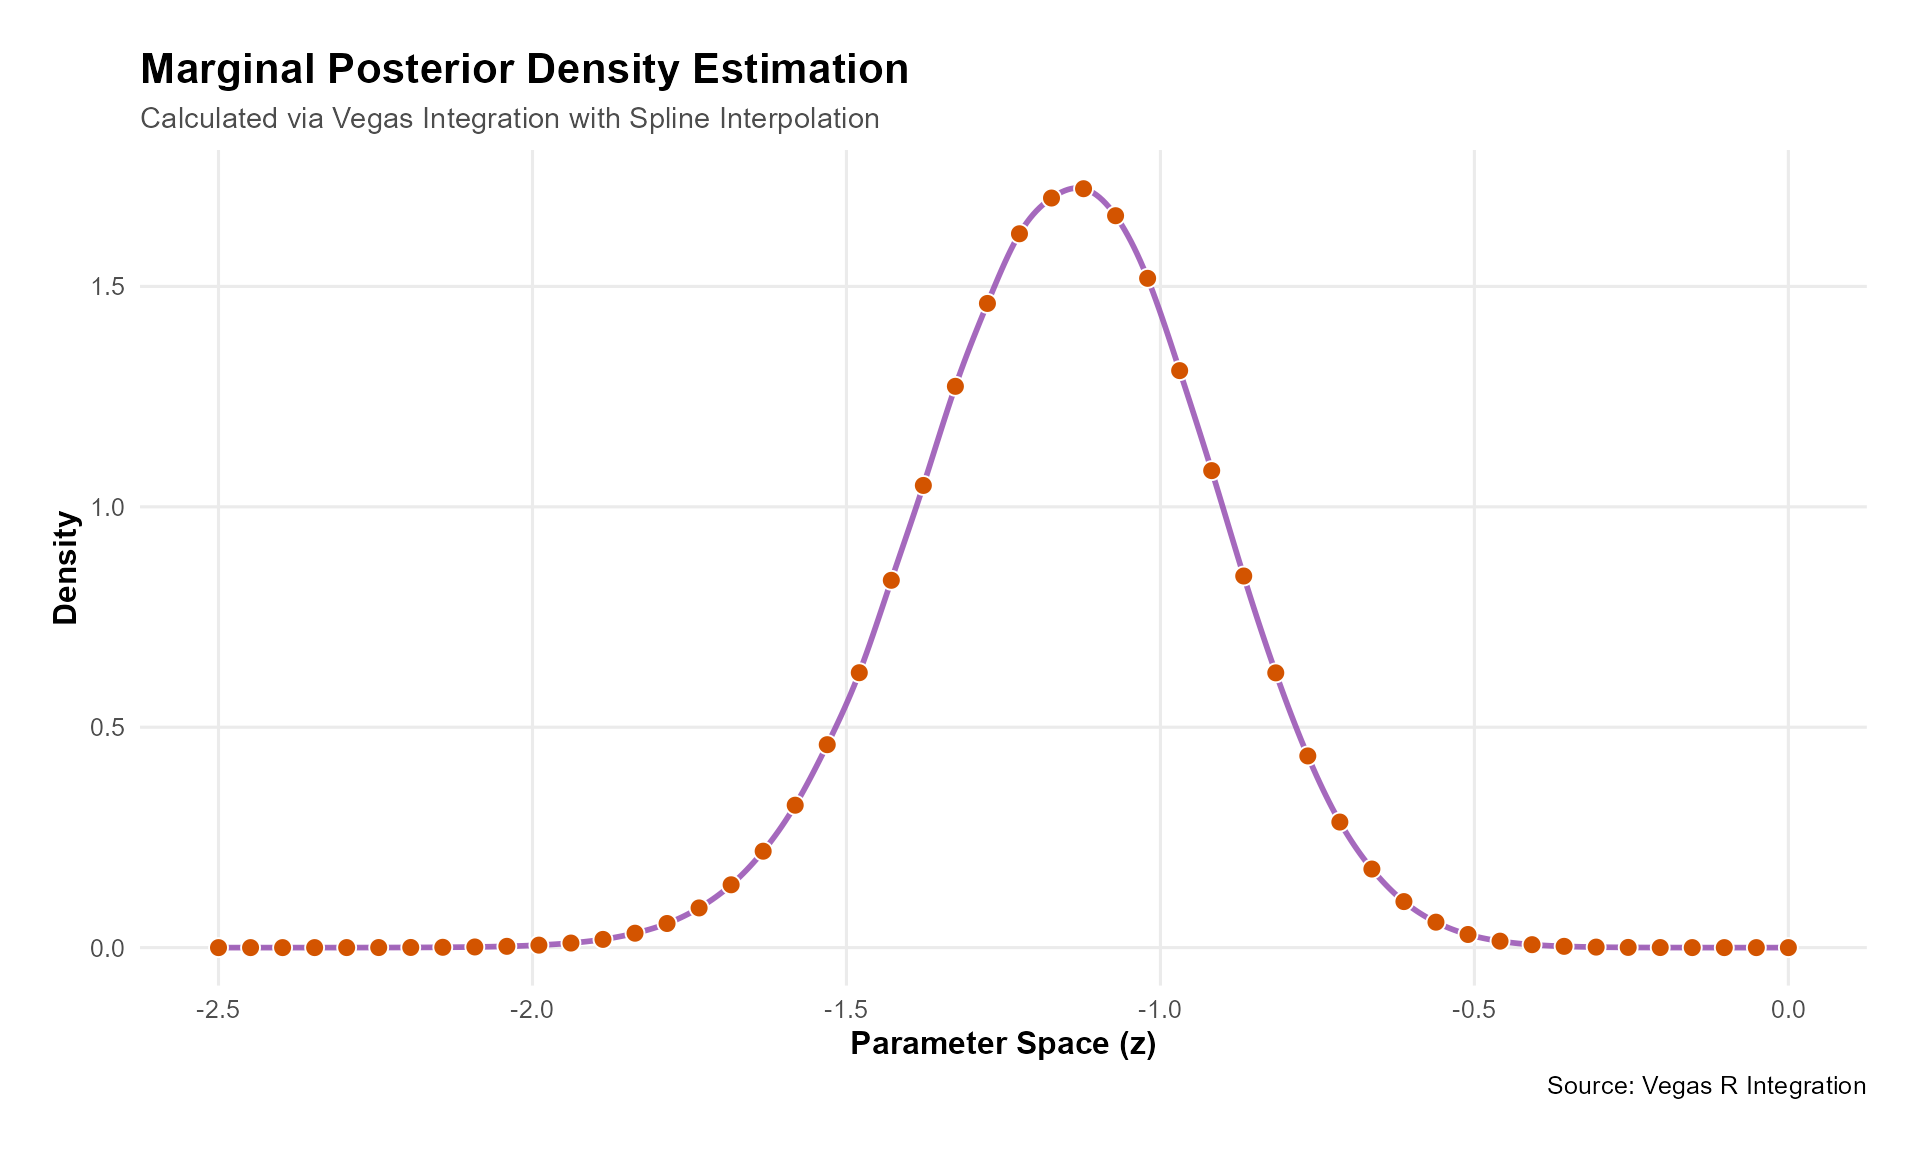
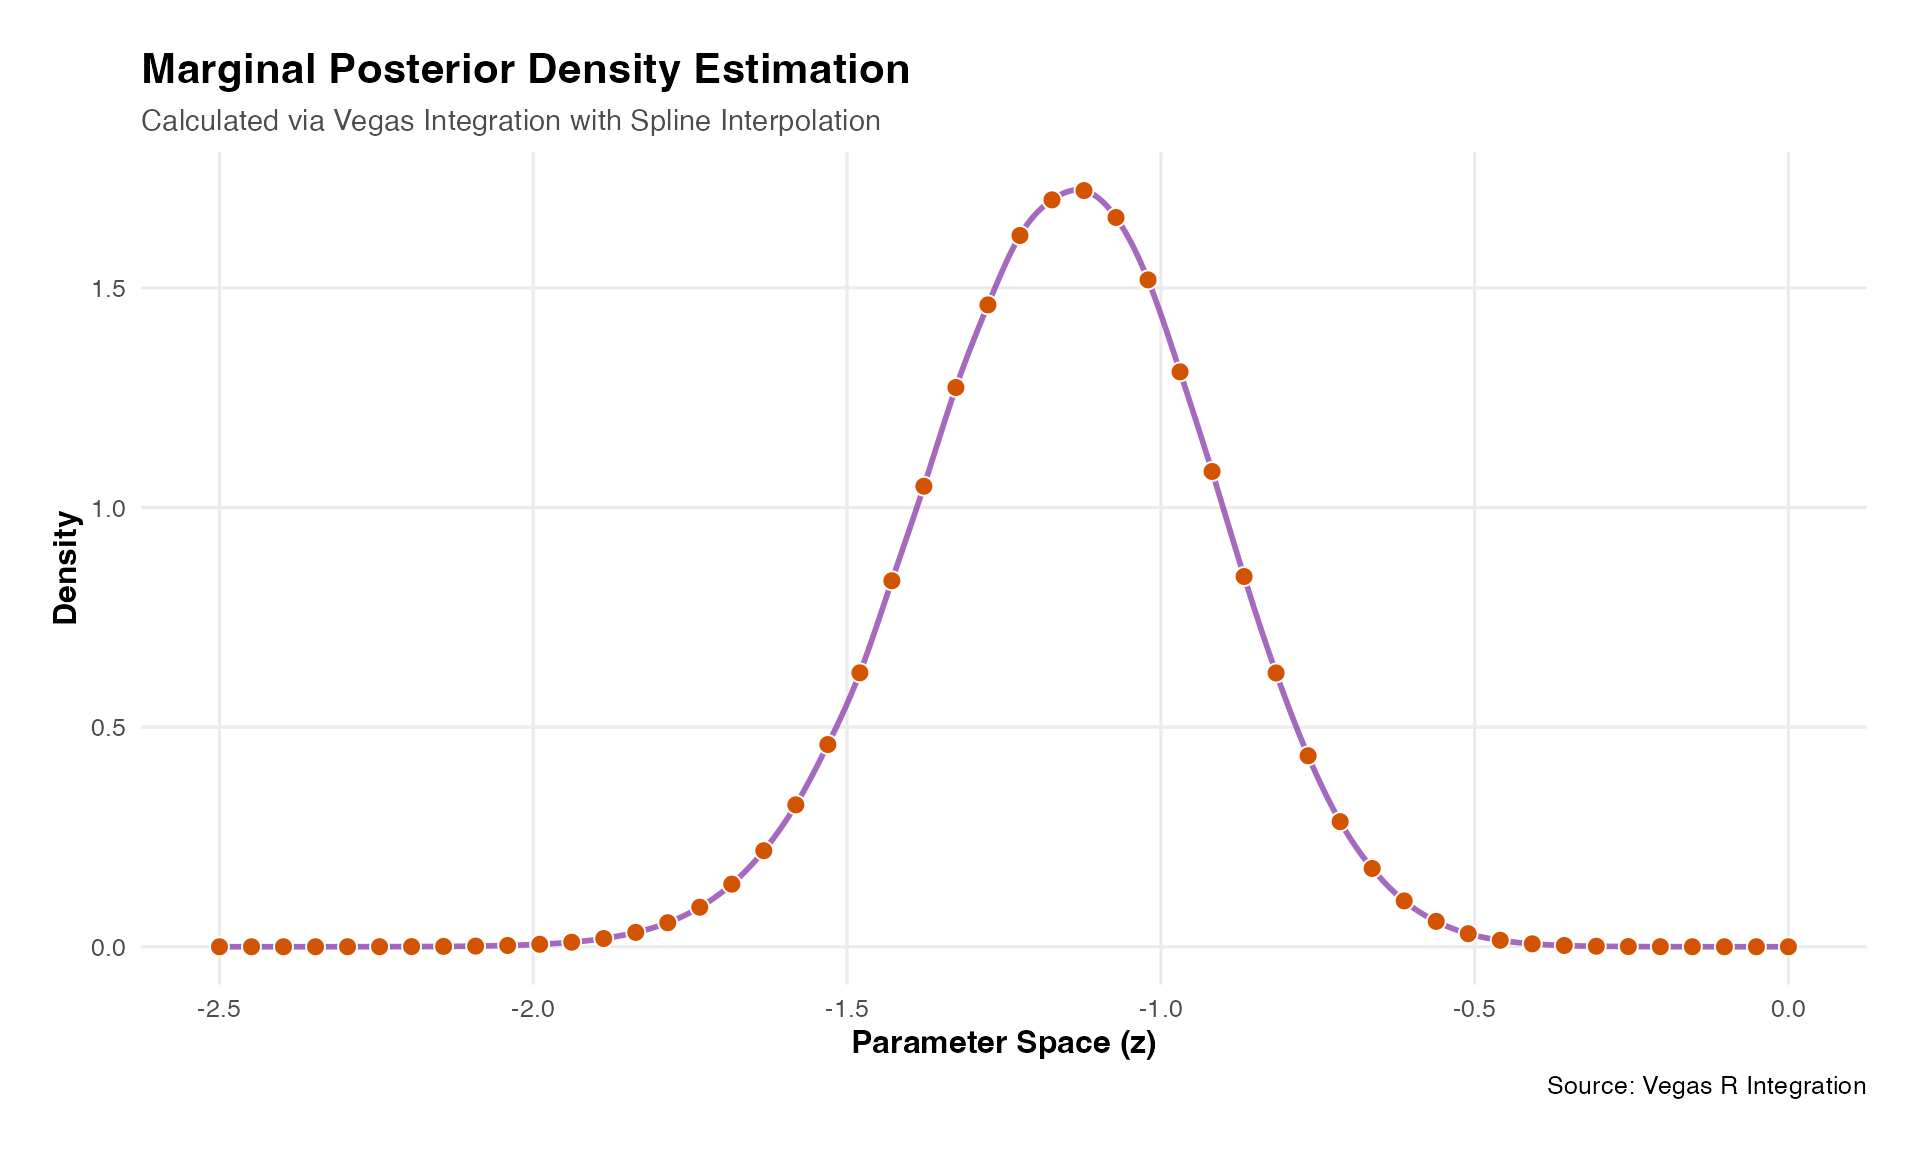
Deploying to gh-pages from @ fraseriainlewis/vegasr@01f2438f299461dc56e50fc99c406062d6ce1b39 🚀

diff --git a/reference/eigen_fn_log_post_1.html b/reference/eigen_fn_log_post_1.html
@@ -1,0 +1,96 @@
+<!DOCTYPE html>
+<!-- Generated by pkgdown: do not edit by hand --><html lang="en"><head><meta http-equiv="Content-Type" content="text/html; charset=UTF-8"><meta charset="utf-8"><meta http-equiv="X-UA-Compatible" content="IE=edge"><meta name="viewport" content="width=device-width, initial-scale=1, shrink-to-fit=no"><title>Multivariate Normal Density (RcppArmadillo) — eigen_fn_log_post_1 • vegasr</title><!-- favicons --><link rel="icon" type="image/png" sizes="96x96" href="../favicon-96x96.png"><link rel="icon" type="”image/svg+xml”" href="../favicon.svg"><link rel="apple-touch-icon" sizes="180x180" href="../apple-touch-icon.png"><link rel="icon" sizes="any" href="../favicon.ico"><link rel="manifest" href="../site.webmanifest"><script src="../deps/jquery-3.6.0/jquery-3.6.0.min.js"></script><meta name="viewport" content="width=device-width, initial-scale=1, shrink-to-fit=no"><link href="../deps/bootstrap-5.3.1/bootstrap.min.css" rel="stylesheet"><script src="../deps/bootstrap-5.3.1/bootstrap.bundle.min.js"></script><link href="../deps/font-awesome-6.5.2/css/all.min.css" rel="stylesheet"><link href="../deps/font-awesome-6.5.2/css/v4-shims.min.css" rel="stylesheet"><script src="../deps/headroom-0.11.0/headroom.min.js"></script><script src="../deps/headroom-0.11.0/jQuery.headroom.min.js"></script><script src="../deps/bootstrap-toc-1.0.1/bootstrap-toc.min.js"></script><script src="../deps/clipboard.js-2.0.11/clipboard.min.js"></script><script src="../deps/search-1.0.0/autocomplete.jquery.min.js"></script><script src="../deps/search-1.0.0/fuse.min.js"></script><script src="../deps/search-1.0.0/mark.min.js"></script><!-- pkgdown --><script src="../pkgdown.js"></script><meta property="og:title" content="Multivariate Normal Density (RcppArmadillo) — eigen_fn_log_post_1"><meta name="description" content="Multivariate Normal Density (RcppArmadillo)"><meta property="og:description" content="Multivariate Normal Density (RcppArmadillo)"><meta property="og:image" content="https://fraseriainlewis.github.io/vegasr/logo.png"></head><body>
+    <a href="#main" class="visually-hidden-focusable">Skip to contents</a>
+
+
+    <nav class="navbar navbar-expand-lg fixed-top bg-light" data-bs-theme="light" aria-label="Site navigation"><div class="container">
+
+    <a class="navbar-brand me-2" href="../index.html">vegasr</a>
+
+    <small class="nav-text text-muted me-auto" data-bs-toggle="tooltip" data-bs-placement="bottom" title="">0.0.0.9000</small>
+
+
+    <button class="navbar-toggler" type="button" data-bs-toggle="collapse" data-bs-target="#navbar" aria-controls="navbar" aria-expanded="false" aria-label="Toggle navigation">
+      <span class="navbar-toggler-icon"></span>
+    </button>
+
+    <div id="navbar" class="collapse navbar-collapse ms-3">
+      <ul class="navbar-nav me-auto"><li class="active nav-item"><a class="nav-link" href="../reference/index.html">Reference</a></li>
+<li class="nav-item dropdown">
+  <button class="nav-link dropdown-toggle" type="button" id="dropdown-articles" data-bs-toggle="dropdown" aria-expanded="false" aria-haspopup="true">Articles</button>
+  <ul class="dropdown-menu" aria-labelledby="dropdown-articles"><li><a class="dropdown-item" href="../articles/bayes1.html">Bayesian Posterior Densities</a></li>
+    <li><a class="dropdown-item" href="../articles/rcpp.html">Using Rcpp in Vegasr</a></li>
+  </ul></li>
+      </ul><ul class="navbar-nav"><li class="nav-item"><form class="form-inline" role="search">
+ <input class="form-control" type="search" name="search-input" id="search-input" autocomplete="off" aria-label="Search site" placeholder="Search for" data-search-index="../search.json"></form></li>
+<li class="nav-item"><a class="external-link nav-link" href="https://github.com/fraseriainlewis/vegasr/" aria-label="GitHub"><span class="fa fab fa-github fa-lg"></span></a></li>
+      </ul></div>
+
+
+  </div>
+</nav><div class="container template-reference-topic">
+<div class="row">
+  <main id="main" class="col-md-9"><div class="page-header">
+      <img src="../logo.png" class="logo" alt=""><h1>Multivariate Normal Density (RcppArmadillo)</h1>
+      <small class="dont-index">Source: <a href="https://github.com/fraseriainlewis/vegasr/blob/master/R/RcppExports.R" class="external-link"><code>R/RcppExports.R</code></a></small>
+      <div class="d-none name"><code>eigen_fn_log_post_1.Rd</code></div>
+    </div>
+
+    <div class="ref-description section level2">
+    <p>Multivariate Normal Density (RcppArmadillo)</p>
+    </div>
+
+    <div class="section level2">
+    <h2 id="ref-usage">Usage<a class="anchor" aria-label="anchor" href="#ref-usage"></a></h2>
+    <div class="sourceCode"><pre class="sourceCode r"><code><span><span class="fu">eigen_fn_log_post_1</span><span class="op">(</span><span class="va">theta</span>, <span class="va">y</span>, <span class="va">treat</span>, <span class="va">shiftby</span>, <span class="va">uselog</span><span class="op">)</span></span></code></pre></div>
+    </div>
+
+    <div class="section level2">
+    <h2 id="arguments">Arguments<a class="anchor" aria-label="anchor" href="#arguments"></a></h2>
+
+
+<dl><dt id="arg-theta">theta<a class="anchor" aria-label="anchor" href="#arg-theta"></a></dt>
+<dd><p>Matrix of integration variables (BATCH x N)</p></dd>
+
+
+<dt id="arg-y">y<a class="anchor" aria-label="anchor" href="#arg-y"></a></dt>
+<dd><p>Mean vector (length N)</p></dd>
+
+
+<dt id="arg-treat">treat<a class="anchor" aria-label="anchor" href="#arg-treat"></a></dt>
+<dd><p>Covariance matrix (N x N)</p></dd>
+
+
+<dt id="arg-shiftby">shiftby<a class="anchor" aria-label="anchor" href="#arg-shiftby"></a></dt>
+<dd><p>Scaling factor</p></dd>
+
+
+<dt id="arg-uselog">uselog<a class="anchor" aria-label="anchor" href="#arg-uselog"></a></dt>
+<dd><p>fff</p></dd>
+
+</dl></div>
+    <div class="section level2">
+    <h2 id="value">Value<a class="anchor" aria-label="anchor" href="#value"></a></h2>
+    <p>vector of density values (length BATCH)</p>
+    </div>
+
+  </main><aside class="col-md-3"><nav id="toc" aria-label="Table of contents"><h2>On this page</h2>
+    </nav></aside></div>
+
+
+    <footer><div class="pkgdown-footer-left">
+  <p>Developed by First Last.</p>
+</div>
+
+<div class="pkgdown-footer-right">
+  <p>Site built with <a href="https://pkgdown.r-lib.org/" class="external-link">pkgdown</a> 2.2.0.</p>
+</div>
+
+    </footer></div>
+
+
+
+
+
+  </body></html>
+

diff --git a/articles/rcpp.html b/articles/rcpp.html
@@ -72,9 +72,16 @@
 <div class="section level3">
 <h3 id="quickstart">Quickstart<a class="anchor" aria-label="anchor" href="#quickstart"></a>
 </h3>
-<p>11th-May-update: An example of how to use RcppArmadillo to compute an
-integrand, which is typically much faster than using R directly. This
-compares the R function and the Rcpp function each passed to vegas.</p>
+<p>13th-May-update: Using Rcpp to write the log posterior function will
+almost surely be faster, perhaps many times faster, than an R function
+even when vectorized. Examples of the timing comparison are below.</p>
+<p>Example log posterior functions are given below using two Rcpp linear
+algebra libraries, <a href="https://github.com/rcppcore/rcpparmadillo" class="external-link">RcppArmadillo</a> and
+<a href="https://github.com/RcppCore/RcppEigen" class="external-link">RcppEigen</a>. These
+libraries have different pros and cons. In short RcppArmadillo has some
+built-in parallelization while RcppEigen does not, but both are highly
+efficient in their own way. RcppEigen works well with <a href="https://github.com/rcppcore/rcppparallel" class="external-link">RcppParallel</a> which
+can be more problematic with RcppArmadillo.</p>
 </div>
 <div class="section level2">
 <h2 id="model-formulation">Model Formulation<a class="anchor" aria-label="anchor" href="#model-formulation"></a>
@@ -91,7 +98,18 @@ compares the R function and the Rcpp function each passed to vegas.</p>
 <div class="sourceCode" id="cb2"><pre class="downlit sourceCode r">
 <code class="sourceCode R"><span><span class="co">### Now use VEGAS</span></span>
 <span><span class="kw"><a href="https://rdrr.io/r/base/library.html" class="external-link">library</a></span><span class="op">(</span><span class="va"><a href="https://github.com/RcppCore/RcppArmadillo" class="external-link">RcppArmadillo</a></span><span class="op">)</span></span>
-<span><span class="co">#&gt; Warning: package 'RcppArmadillo' was built under R version 4.2.3</span></span>
+<span><span class="kw"><a href="https://rdrr.io/r/base/library.html" class="external-link">library</a></span><span class="op">(</span><span class="va"><a href="https://github.com/RcppCore/RcppEigen" class="external-link">RcppEigen</a></span><span class="op">)</span></span>
+<span><span class="co">#&gt; Registered S3 methods overwritten by 'RcppEigen':</span></span>
+<span><span class="co">#&gt;   method               from         </span></span>
+<span><span class="co">#&gt;   predict.fastLm       RcppArmadillo</span></span>
+<span><span class="co">#&gt;   print.fastLm         RcppArmadillo</span></span>
+<span><span class="co">#&gt;   summary.fastLm       RcppArmadillo</span></span>
+<span><span class="co">#&gt;   print.summary.fastLm RcppArmadillo</span></span>
+<span><span class="co">#&gt; </span></span>
+<span><span class="co">#&gt; Attaching package: 'RcppEigen'</span></span>
+<span><span class="co">#&gt; The following objects are masked from 'package:RcppArmadillo':</span></span>
+<span><span class="co">#&gt; </span></span>
+<span><span class="co">#&gt;     fastLm, fastLmPure</span></span>
 <span></span>
 <span><span class="va">theta</span><span class="op">&lt;-</span> <span class="fu"><a href="https://rdrr.io/r/base/matrix.html" class="external-link">matrix</a></span><span class="op">(</span>data<span class="op">=</span><span class="fu"><a href="https://rdrr.io/r/base/rep.html" class="external-link">rep</a></span><span class="op">(</span><span class="fl">0.1</span>,length<span class="op">=</span><span class="fl">4</span><span class="op">*</span><span class="fl">6</span><span class="op">)</span>, ncol <span class="op">=</span> <span class="fl">6</span><span class="op">)</span></span>
 <span></span>
@@ -105,7 +123,11 @@ compares the R function and the Rcpp function each passed to vegas.</p>
 <span><span class="co">#&gt; [2,] -145.933</span></span>
 <span><span class="co">#&gt; [3,] -145.933</span></span>
 <span><span class="co">#&gt; [4,] -145.933</span></span>
-<span><span class="co"># this function is in vegasr/src/fns.cpp</span></span></code></pre></div>
+<span><span class="co"># this function is in vegasr/src/fns_arma.cpp</span></span>
+<span></span>
+<span><span class="fu">vegasr</span><span class="fu">::</span><span class="fu"><a href="../reference/eigen_fn_log_post_1.html">eigen_fn_log_post_1</a></span><span class="op">(</span><span class="va">theta</span>, <span class="va">thedata</span><span class="op">$</span><span class="va">y</span>, <span class="va">thedata</span><span class="op">$</span><span class="va">treat</span>,<span class="fl">0.0</span>, <span class="fl">1.0</span><span class="op">)</span></span>
+<span><span class="co">#&gt; [1] -145.933 -145.933 -145.933 -145.933</span></span>
+<span><span class="co"># this function is in vegasr/src/fns_eigen.cpp</span></span></code></pre></div>
 <div class="sourceCode" id="cb3"><pre class="downlit sourceCode r">
 <code class="sourceCode R"><span><span class="kw"><a href="https://rdrr.io/r/base/library.html" class="external-link">library</a></span><span class="op">(</span><span class="va"><a href="https://github.com/fraseriainlewis/vegasr" class="external-link">vegasr</a></span><span class="op">)</span></span>
 <span><span class="co"># now setup python environment</span></span>
@@ -113,7 +135,6 @@ compares the R function and the Rcpp function each passed to vegas.</p>
 <span><span class="co">#&gt; vegas is already initialized</span></span>
 <span><span class="co">#&gt; NULL</span></span>
 <span><span class="kw"><a href="https://rdrr.io/r/base/library.html" class="external-link">library</a></span><span class="op">(</span><span class="va"><a href="https://github.com/jabiru/tictoc" class="external-link">tictoc</a></span><span class="op">)</span></span>
-<span><span class="co">#&gt; Warning: package 'tictoc' was built under R version 4.2.3</span></span>
 <span></span>
 <span></span>
 <span><span class="fu"><a href="https://rdrr.io/pkg/tictoc/man/tic.html" class="external-link">tic</a></span><span class="op">(</span><span class="op">)</span></span>
@@ -126,13 +147,13 @@ compares the R function and the Rcpp function each passed to vegas.</p>
 <span>                                 extra_args<span class="op">=</span><span class="fu"><a href="https://rdrr.io/r/base/list.html" class="external-link">list</a></span><span class="op">(</span></span>
 <span>                                   y<span class="op">=</span><span class="va">thedata</span><span class="op">$</span><span class="va">y</span>,treat<span class="op">=</span><span class="va">thedata</span><span class="op">$</span><span class="va">treat</span>,shiftby<span class="op">=</span><span class="fl">0</span>,uselog<span class="op">=</span><span class="fl">1.</span><span class="op">)</span><span class="op">)</span></span>
 <span><span class="fu"><a href="https://rdrr.io/pkg/tictoc/man/tic.html" class="external-link">toc</a></span><span class="op">(</span><span class="op">)</span></span>
-<span><span class="co">#&gt; 113.83 sec elapsed</span></span>
+<span><span class="co">#&gt; 17.45 sec elapsed</span></span>
 <span><span class="fu"><a href="https://rdrr.io/r/base/cat.html" class="external-link">cat</a></span><span class="op">(</span><span class="st">"log evidence = "</span>,<span class="va">result_logEv</span>,<span class="st">"\n"</span><span class="op">)</span></span>
 <span><span class="co">#&gt; log evidence =  -129.4151</span></span>
 <span></span>
 <span></span>
 <span><span class="fu"><a href="https://rdrr.io/pkg/tictoc/man/tic.html" class="external-link">tic</a></span><span class="op">(</span><span class="op">)</span></span>
-<span><span class="va">result_logEv</span><span class="op">&lt;-</span><span class="fu"><a href="../reference/vegasBayesEvidence.html">vegasBayesEvidence</a></span><span class="op">(</span>f<span class="op">=</span><span class="va">arma_fn_log_post_1</span>,</span>
+<span><span class="va">result_logEv</span><span class="op">&lt;-</span><span class="fu"><a href="../reference/vegasBayesEvidence.html">vegasBayesEvidence</a></span><span class="op">(</span>f<span class="op">=</span><span class="fu">vegasr</span><span class="fu">::</span><span class="va"><a href="../reference/arma_fn_log_post_1.html">arma_fn_log_post_1</a></span>,</span>
 <span>                                 lower<span class="op">=</span><span class="fu"><a href="https://rdrr.io/r/base/c.html" class="external-link">c</a></span><span class="op">(</span><span class="op">-</span><span class="fl">1</span>,<span class="op">-</span><span class="fl">1</span>,<span class="op">-</span><span class="fl">1</span>,<span class="op">-</span><span class="fl">1</span>,<span class="fl">0.0001</span>,<span class="fl">0.0001</span><span class="op">)</span>,</span>
 <span>                                 upper<span class="op">=</span><span class="fu"><a href="https://rdrr.io/r/base/c.html" class="external-link">c</a></span><span class="op">(</span><span class="fl">1</span>,<span class="fl">1</span>,<span class="fl">1</span>,<span class="fl">1</span>,<span class="fl">1</span>,<span class="fl">1</span><span class="op">)</span>,</span>
 <span>                                 nitn_warm <span class="op">=</span> <span class="fl">5</span>, neval_warm <span class="op">=</span> <span class="fl">1e5</span>,</span>
@@ -141,7 +162,21 @@ compares the R function and the Rcpp function each passed to vegas.</p>
 <span>                                 extra_args<span class="op">=</span><span class="fu"><a href="https://rdrr.io/r/base/list.html" class="external-link">list</a></span><span class="op">(</span></span>
 <span>                                   y<span class="op">=</span><span class="va">thedata</span><span class="op">$</span><span class="va">y</span>,treat<span class="op">=</span><span class="va">thedata</span><span class="op">$</span><span class="va">treat</span>,shiftby<span class="op">=</span><span class="fl">0</span>,uselog<span class="op">=</span><span class="fl">1.</span><span class="op">)</span><span class="op">)</span></span>
 <span><span class="fu"><a href="https://rdrr.io/pkg/tictoc/man/tic.html" class="external-link">toc</a></span><span class="op">(</span><span class="op">)</span></span>
-<span><span class="co">#&gt; 17.33 sec elapsed</span></span>
+<span><span class="co">#&gt; 5.095 sec elapsed</span></span>
+<span><span class="fu"><a href="https://rdrr.io/r/base/cat.html" class="external-link">cat</a></span><span class="op">(</span><span class="st">"log evidence = "</span>,<span class="va">result_logEv</span>,<span class="st">"\n"</span><span class="op">)</span></span>
+<span><span class="co">#&gt; log evidence =  -129.4151</span></span>
+<span></span>
+<span><span class="fu"><a href="https://rdrr.io/pkg/tictoc/man/tic.html" class="external-link">tic</a></span><span class="op">(</span><span class="op">)</span></span>
+<span><span class="va">result_logEv</span><span class="op">&lt;-</span><span class="fu"><a href="../reference/vegasBayesEvidence.html">vegasBayesEvidence</a></span><span class="op">(</span>f<span class="op">=</span><span class="fu">vegasr</span><span class="fu">::</span><span class="va"><a href="../reference/eigen_fn_log_post_1.html">eigen_fn_log_post_1</a></span>,</span>
+<span>                                 lower<span class="op">=</span><span class="fu"><a href="https://rdrr.io/r/base/c.html" class="external-link">c</a></span><span class="op">(</span><span class="op">-</span><span class="fl">1</span>,<span class="op">-</span><span class="fl">1</span>,<span class="op">-</span><span class="fl">1</span>,<span class="op">-</span><span class="fl">1</span>,<span class="fl">0.0001</span>,<span class="fl">0.0001</span><span class="op">)</span>,</span>
+<span>                                 upper<span class="op">=</span><span class="fu"><a href="https://rdrr.io/r/base/c.html" class="external-link">c</a></span><span class="op">(</span><span class="fl">1</span>,<span class="fl">1</span>,<span class="fl">1</span>,<span class="fl">1</span>,<span class="fl">1</span>,<span class="fl">1</span><span class="op">)</span>,</span>
+<span>                                 nitn_warm <span class="op">=</span> <span class="fl">5</span>, neval_warm <span class="op">=</span> <span class="fl">1e5</span>,</span>
+<span>                                 nitn <span class="op">=</span> <span class="fl">5</span>, neval <span class="op">=</span> <span class="fl">1e5</span>,</span>
+<span>                                 errTol<span class="op">=</span><span class="fl">0.1</span>,maxIter<span class="op">=</span><span class="fl">10</span>,seed<span class="op">=</span><span class="fl">99999</span>,nsearch<span class="op">=</span><span class="fl">10000</span>,</span>
+<span>                                 extra_args<span class="op">=</span><span class="fu"><a href="https://rdrr.io/r/base/list.html" class="external-link">list</a></span><span class="op">(</span></span>
+<span>                                   y<span class="op">=</span><span class="va">thedata</span><span class="op">$</span><span class="va">y</span>,treat<span class="op">=</span><span class="va">thedata</span><span class="op">$</span><span class="va">treat</span>,shiftby<span class="op">=</span><span class="fl">0</span>,uselog<span class="op">=</span><span class="fl">1.</span><span class="op">)</span><span class="op">)</span></span>
+<span><span class="fu"><a href="https://rdrr.io/pkg/tictoc/man/tic.html" class="external-link">toc</a></span><span class="op">(</span><span class="op">)</span></span>
+<span><span class="co">#&gt; 5.081 sec elapsed</span></span>
 <span><span class="fu"><a href="https://rdrr.io/r/base/cat.html" class="external-link">cat</a></span><span class="op">(</span><span class="st">"log evidence = "</span>,<span class="va">result_logEv</span>,<span class="st">"\n"</span><span class="op">)</span></span>
 <span><span class="co">#&gt; log evidence =  -129.4151</span></span></code></pre></div>
 </div>
@@ -157,7 +192,7 @@ compares the R function and the Rcpp function each passed to vegas.</p>
 </div>
 
 <div class="pkgdown-footer-right">
-  <p>Site built with <a href="https://pkgdown.r-lib.org/" class="external-link">pkgdown</a> 2.2.0.</p>
+  <p>Site built with <a href="https://pkgdown.r-lib.org/" class="external-link">pkgdown</a> 2.1.3.</p>
 </div>
 
     </footer>

diff --git a/articles/bayes1.html b/articles/bayes1.html
@@ -191,16 +191,11 @@ integrates to unity. Also known as the log marginal likelihood.</p>
 <div class="sourceCode" id="cb4"><pre class="downlit sourceCode r">
 <code class="sourceCode R"><span></span>
 <span><span class="kw"><a href="https://rdrr.io/r/base/library.html" class="external-link">library</a></span><span class="op">(</span><span class="va"><a href="https://github.com/RevolutionAnalytics/foreach" class="external-link">foreach</a></span><span class="op">)</span></span>
-<span><span class="co">#&gt; Warning: package 'foreach' was built under R version 4.2.3</span></span>
 <span><span class="kw"><a href="https://rdrr.io/r/base/library.html" class="external-link">library</a></span><span class="op">(</span><span class="va"><a href="https://github.com/RevolutionAnalytics/doparallel" class="external-link">doParallel</a></span><span class="op">)</span></span>
-<span><span class="co">#&gt; Warning: package 'doParallel' was built under R version 4.2.3</span></span>
 <span><span class="co">#&gt; Loading required package: iterators</span></span>
-<span><span class="co">#&gt; Warning: package 'iterators' was built under R version 4.2.3</span></span>
 <span><span class="co">#&gt; Loading required package: parallel</span></span>
-<span><span class="kw"><a href="https://rdrr.io/r/base/library.html" class="external-link">library</a></span><span class="op">(</span><span class="va"><a href="https://github.com/twolodzko/extraDistr" class="external-link">extraDistr</a></span><span class="op">)</span></span>
-<span><span class="co">#&gt; Warning: package 'extraDistr' was built under R version 4.2.3</span></span>
+<span><span class="kw"><a href="https://rdrr.io/r/base/library.html" class="external-link">library</a></span><span class="op">(</span><span class="va"><a href="https://github.com/sigbertklinke/extraDistr" class="external-link">extraDistr</a></span><span class="op">)</span></span>
 <span><span class="kw"><a href="https://rdrr.io/r/base/library.html" class="external-link">library</a></span><span class="op">(</span><span class="va"><a href="https://github.com/jabiru/tictoc" class="external-link">tictoc</a></span><span class="op">)</span></span>
-<span><span class="co">#&gt; Warning: package 'tictoc' was built under R version 4.2.3</span></span>
 <span></span>
 <span><span class="va">cl</span> <span class="op">&lt;-</span> <span class="fu"><a href="https://rdrr.io/r/parallel/makeCluster.html" class="external-link">makeCluster</a></span><span class="op">(</span><span class="va">n_cores</span><span class="op">)</span></span>
 <span></span>
@@ -223,12 +218,12 @@ integrates to unity. Also known as the log marginal likelihood.</p>
 <span></span>
 <span><span class="fu"><a href="https://rdrr.io/r/parallel/makeCluster.html" class="external-link">stopCluster</a></span><span class="op">(</span><span class="va">cl</span><span class="op">)</span></span>
 <span><span class="fu"><a href="https://rdrr.io/pkg/tictoc/man/tic.html" class="external-link">toc</a></span><span class="op">(</span><span class="op">)</span> <span class="co"># Stops timer and prints</span></span>
-<span><span class="co">#&gt; Parallel Vegas Loop: 70.53 sec elapsed</span></span></code></pre></div>
+<span><span class="co">#&gt; Parallel Vegas Loop: 41.244 sec elapsed</span></span></code></pre></div>
 <div class="sourceCode" id="cb5"><pre class="downlit sourceCode r">
 <code class="sourceCode R"><span><span class="co"># 3. Display the plot</span></span>
 <span><span class="co"># plotting code above in hidden chunk</span></span>
 <span><span class="fu"><a href="https://rdrr.io/r/base/print.html" class="external-link">print</a></span><span class="op">(</span><span class="va">p</span><span class="op">)</span></span></code></pre></div>
-<p><img src="bayes1_files/figure-html/plot_marg2-1.png" class="r-plt" width="100%" style="display: block; margin: auto;"></p>
+<p><img src="bayes1_files/figure-html/plot_marg2-1.png" width="100%" style="display: block; margin: auto;"></p>
 </div>
   </main><aside class="col-md-3"><nav id="toc" aria-label="Table of contents"><h2>On this page</h2>
     </nav></aside>
@@ -241,7 +236,7 @@ integrates to unity. Also known as the log marginal likelihood.</p>
 </div>
 
 <div class="pkgdown-footer-right">
-  <p>Site built with <a href="https://pkgdown.r-lib.org/" class="external-link">pkgdown</a> 2.2.0.</p>
+  <p>Site built with <a href="https://pkgdown.r-lib.org/" class="external-link">pkgdown</a> 2.1.3.</p>
 </div>
 
     </footer>

diff --git a/reference/index.html b/reference/index.html
@@ -60,6 +60,13 @@
 
         <dt>
 
+          <code><a href="eigen_fn_log_post_1.html">eigen_fn_log_post_1()</a></code>
+
+        </dt>
+        <dd>Multivariate Normal Density (RcppArmadillo)</dd>
+
+        <dt>
+
           <code><a href="vegas.html">vegas()</a></code>
 
         </dt>

diff --git a/index.html b/index.html
@@ -97,9 +97,9 @@
 <span>                     mean<span class="op">=</span><span class="fu"><a href="https://rdrr.io/r/base/numeric.html" class="external-link">as.numeric</a></span><span class="op">(</span><span class="va">mu</span><span class="op">)</span>, <span class="co"># coercion as needs vector</span></span>
 <span>                     sigma<span class="op">=</span><span class="va">cov</span><span class="op">)</span></span>
 <span><span class="fu"><a href="https://rdrr.io/r/base/print.html" class="external-link">print</a></span><span class="op">(</span><span class="va">res_builtin</span><span class="op">)</span></span>
-<span><span class="co">#&gt; [1] 0.3103132</span></span>
+<span><span class="co">#&gt; [1] 0.3103082</span></span>
 <span><span class="co">#&gt; attr(,"error")</span></span>
-<span><span class="co">#&gt; [1] 5.839828e-05</span></span>
+<span><span class="co">#&gt; [1] 5.853441e-05</span></span>
 <span><span class="co">#&gt; attr(,"msg")</span></span>
 <span><span class="co">#&gt; [1] "Normal Completion"</span></span>
 <span></span>

diff --git a/articles/index.html b/articles/index.html
@@ -51,7 +51,7 @@
 </div>
 
 <div class="pkgdown-footer-right">
-  <p>Site built with <a href="https://pkgdown.r-lib.org/" class="external-link">pkgdown</a> 2.2.0.</p>
+  <p>Site built with <a href="https://pkgdown.r-lib.org/" class="external-link">pkgdown</a> 2.1.3.</p>
 </div>
 
     </footer></div>